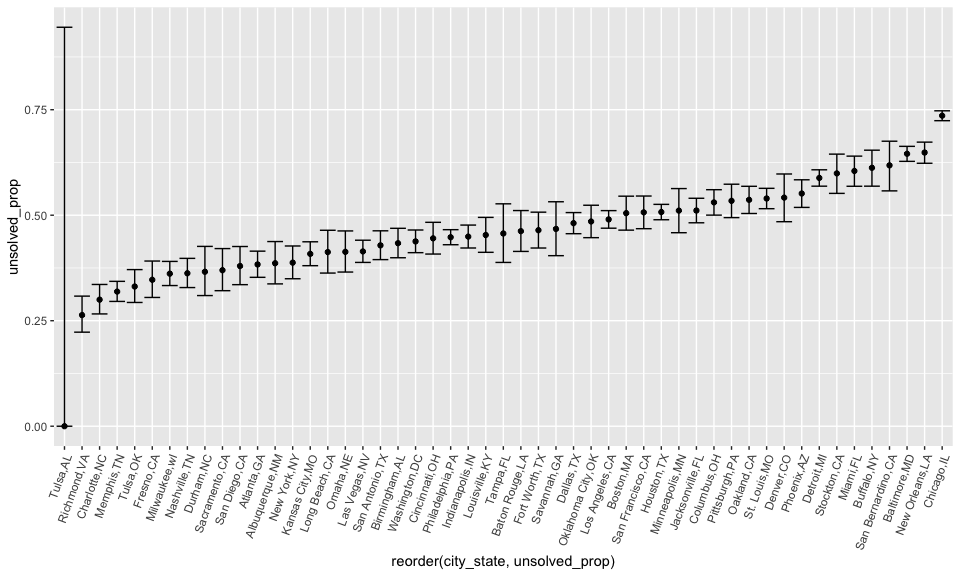
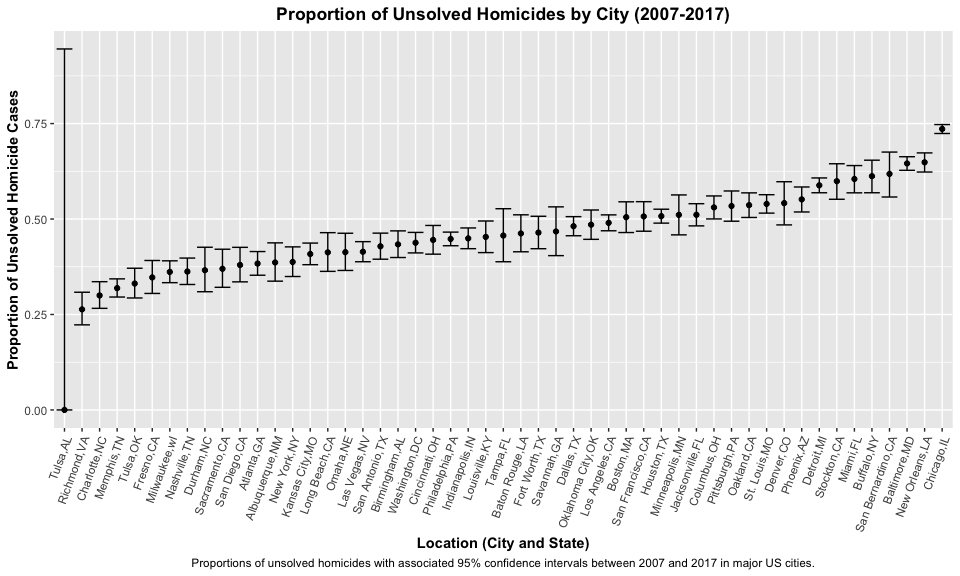
p2. touch ups to plot

diff --git a/p8105_hw5_td2749.md b/p8105_hw5_td2749.md
@@ -119,11 +119,22 @@ number of cases is only 1, it is not appropriate to perform a one-sample
 proportion test under these circumstances.
 
 ``` r
-homicide_prop_results %>%
-  ggplot(aes(x = reorder(city_state, unsolved_prop), y = unsolved_prop)) +
-    geom_point() +
-    geom_errorbar(aes(ymin = conf.low, ymax = conf.high)) +
-    theme(axis.text.x = element_text(angle = 70, hjust = 1))
+unsolved_prop_plot = 
+  homicide_prop_results %>%
+    ggplot(aes(x = reorder(city_state, unsolved_prop), y = unsolved_prop)) +
+      geom_point() +
+      geom_errorbar(aes(ymin = conf.low, ymax = conf.high)) +
+      labs(title = "Proportion of Unsolved Homicides by City (2007-2017)",
+           x = "Location (City and State)",
+           y = "Proportion of Unsolved Homicide Cases",
+           caption = "Proportions of unsolved homicides with associated 95% confidence intervals between 2007 and 2017 in major US cities.") +
+      theme(legend.position = "none",
+            plot.title = element_text(hjust = 0.5, face = "bold"),
+            plot.caption = element_text(hjust = 0.5),
+            axis.title = element_text(face = "bold"),
+            axis.text.x = element_text(angle = 70, hjust = 1))
+
+unsolved_prop_plot
 ```
 
 <img src="p8105_hw5_td2749_files/figure-gfm/plot of estimate with ci-1.png" width="90%" />
